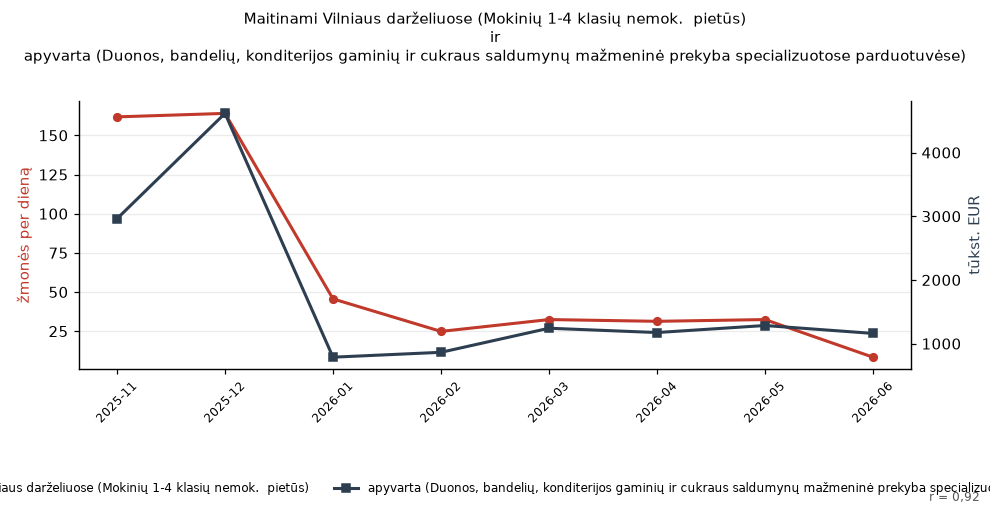
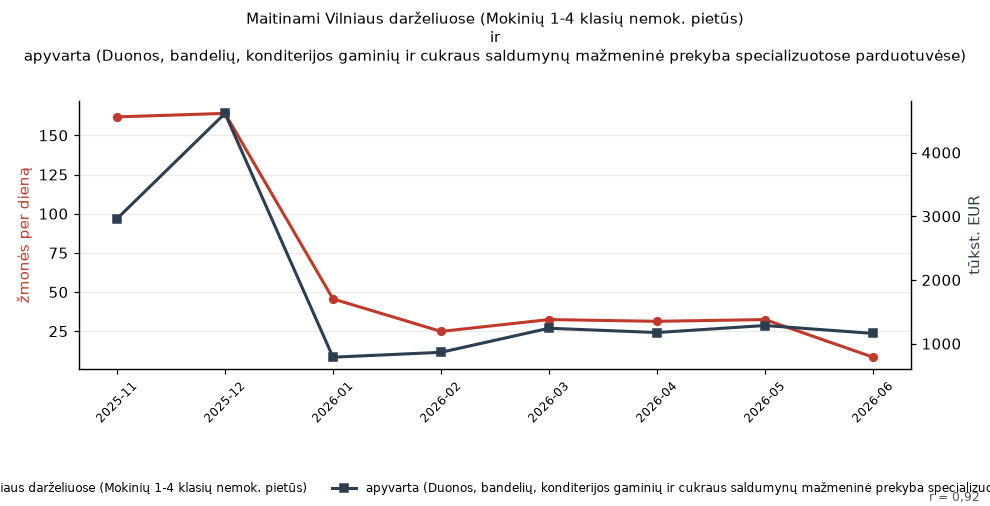
Relabel double space

Changed region(s): [[0.0, 0.9486, 1.0, 0.9783], [0.2424, 0.0, 0.7576, 0.0593]]

diff --git a/post/2026-10-23-f5a0be7b/index.html b/post/2026-10-23-f5a0be7b/index.html
@@ -1,10 +1,10 @@
 <!doctype html>
 <html lang="lt"><head><meta charset="utf-8">
 <meta name="viewport" content="width=device-width, initial-scale=1">
-<title>Pastaraisiais mėnesiais lyg tyčia sutapo: maitinami Vilniaus darželiuose (Mokinių 1-4 klasių nemok.  pietūs) ir apyvarta (Duonos, bandelių, konditerijos gaminių ir cukraus saldumynų mažmeninė prekyba specializuotose parduotuvėse) · Lyg tyčia</title>
+<title>Pastaraisiais mėnesiais lyg tyčia sutapo: maitinami Vilniaus darželiuose (Mokinių 1-4 klasių nemok. pietūs) ir apyvarta (Duonos, bandelių, konditerijos gaminių ir cukraus saldumynų mažmeninė prekyba specializuotose parduotuvėse) · Lyg tyčia</title>
 <meta property="og:type" content="article">
 <meta property="og:site_name" content="Lyg tyčia">
-<meta property="og:title" content="Pastaraisiais mėnesiais lyg tyčia sutapo: maitinami Vilniaus darželiuose (Mokinių 1-4 klasių nemok.  pietūs) ir apyvarta (Duonos, bandelių, konditerijos gaminių ir cukraus saldumynų mažmeninė prekyba specializuotose parduotuvėse)">
+<meta property="og:title" content="Pastaraisiais mėnesiais lyg tyčia sutapo: maitinami Vilniaus darželiuose (Mokinių 1-4 klasių nemok. pietūs) ir apyvarta (Duonos, bandelių, konditerijos gaminių ir cukraus saldumynų mažmeninė prekyba specializuotose parduotuvėse)">
 <meta property="og:description" content="Maitinami Vilniaus darželiuose (Mokinių 1-4 klasių nemok.  pietūs) ir apyvarta (Duonos, bandelių, konditerijos gaminių ir cukraus saldumynų mažmeninė prekyba specializuotose parduotuvėse) kyla ir krenta kartu: r = 0,92 per 8 mėn. (2025-11 – 2026-06).">
 <meta property="og:url" content="https://1gnas3000.github.io/lygtycia/post/2026-10-23-f5a0be7b/">
 <meta property="og:image" content="https://1gnas3000.github.io/lygtycia/post/2026-10-23-f5a0be7b/chart.png">
@@ -26,18 +26,18 @@
 <article><p class="meta">2026-10-23
  · panašios kreivės · mėnesio duomenys
  · r = 0,92</p>
-<h2>Pastaraisiais mėnesiais lyg tyčia sutapo: maitinami Vilniaus darželiuose (Mokinių 1-4 klasių nemok.  pietūs) ir apyvarta (Duonos, bandelių, konditerijos gaminių ir cukraus saldumynų mažmeninė prekyba specializuotose parduotuvėse)</h2>
+<h2>Pastaraisiais mėnesiais lyg tyčia sutapo: maitinami Vilniaus darželiuose (Mokinių 1-4 klasių nemok. pietūs) ir apyvarta (Duonos, bandelių, konditerijos gaminių ir cukraus saldumynų mažmeninė prekyba specializuotose parduotuvėse)</h2>
 
 <p><a href="../../post/2026-10-23-f5a0be7b/"><img src="../../post/2026-10-23-f5a0be7b/chart.png"
  alt="grafikas" loading="lazy"></a></p>
 <p class="sources">Duomenų šaltiniai:
  <a href="https://get.data.gov.lt/datasets/gov/vilniaus_m_sav/maitinimas/Valgis" rel="noopener">Maitinami asmenys Vilniaus darželiuose</a> · <a href="https://osp.stat.gov.lt/statistiniu-rodikliu-analize?indicator=S8R757" rel="noopener">Prekybos ir maitinimo apyvarta (Valstybės duomenų agentūra)</a></p>
 
-<p class="text">Maitinami Vilniaus darželiuose (Mokinių 1-4 klasių nemok.  pietūs) ir apyvarta (Duonos, bandelių, konditerijos gaminių ir cukraus saldumynų mažmeninė prekyba specializuotose parduotuvėse) kyla ir krenta kartu: r = 0,92 per 8 mėn. (2025-11 – 2026-06).</p><p class="text">Duomenys: „maitinami Vilniaus darželiuose (Mokinių 1-4 klasių nemok.  pietūs)“ (žmonės) ir „apyvarta (Duonos, bandelių, konditerijos gaminių ir cukraus saldumynų mažmeninė prekyba specializuotose parduotuvėse)“ (tūkst. EUR).</p><p class="text">Tyler Vigen&#39;o „Spurious Correlations“ dvasia: iš tūkstančių atsitiktinių Lietuvos atvirų duomenų porų šios dvi nupiešė tą pačią kreivę.</p>
+<p class="text">Maitinami Vilniaus darželiuose (Mokinių 1-4 klasių nemok.  pietūs) ir apyvarta (Duonos, bandelių, konditerijos gaminių ir cukraus saldumynų mažmeninė prekyba specializuotose parduotuvėse) kyla ir krenta kartu: r = 0,92 per 8 mėn. (2025-11 – 2026-06).</p><p class="text">Duomenys: „maitinami Vilniaus darželiuose (Mokinių 1-4 klasių nemok. pietūs)“ (žmonės) ir „apyvarta (Duonos, bandelių, konditerijos gaminių ir cukraus saldumynų mažmeninė prekyba specializuotose parduotuvėse)“ (tūkst. EUR).</p><p class="text">Tyler Vigen&#39;o „Spurious Correlations“ dvasia: iš tūkstančių atsitiktinių Lietuvos atvirų duomenų porų šios dvi nupiešė tą pačią kreivę.</p>
 <p class="share">Dalintis:
  <a href="https://www.facebook.com/sharer/sharer.php?u=https%3A//1gnas3000.github.io/lygtycia/post/2026-10-23-f5a0be7b/"
  rel="noopener">Facebook</a> ·
- <a href="https://mastodonshare.com/?text=Pastaraisiais%20m%C4%97nesiais%20lyg%20ty%C4%8Dia%20sutapo%3A%20maitinami%20Vilniaus%20dar%C5%BEeliuose%20%28Mokini%C5%B3%201-4%20klasi%C5%B3%20nemok.%20%20piet%C5%ABs%29%20ir%20apyvarta%20%28Duonos%2C%20bandeli%C5%B3%2C%20konditerijos%20gamini%C5%B3%20ir%20cukraus%20saldumyn%C5%B3%20ma%C5%BEmenin%C4%97%20prekyba%20specializuotose%20parduotuv%C4%97se%29&url=https%3A//1gnas3000.github.io/lygtycia/post/2026-10-23-f5a0be7b/"
+ <a href="https://mastodonshare.com/?text=Pastaraisiais%20m%C4%97nesiais%20lyg%20ty%C4%8Dia%20sutapo%3A%20maitinami%20Vilniaus%20dar%C5%BEeliuose%20%28Mokini%C5%B3%201-4%20klasi%C5%B3%20nemok.%20piet%C5%ABs%29%20ir%20apyvarta%20%28Duonos%2C%20bandeli%C5%B3%2C%20konditerijos%20gamini%C5%B3%20ir%20cukraus%20saldumyn%C5%B3%20ma%C5%BEmenin%C4%97%20prekyba%20specializuotose%20parduotuv%C4%97se%29&url=https%3A//1gnas3000.github.io/lygtycia/post/2026-10-23-f5a0be7b/"
  rel="noopener">Mastodon</a> ·
  <a href="https://www.linkedin.com/sharing/share-offsite/?url=https%3A//1gnas3000.github.io/lygtycia/post/2026-10-23-f5a0be7b/"
  rel="noopener">LinkedIn</a></p>

diff --git a/index.html b/index.html
@@ -18,7 +18,7 @@
 <p class="meta">Kasdien – dvi Lietuvos atvirų duomenų kreivės, kurios lyg tyčia sutapo.</p>
 </header>
 <article><p class="meta">2026-10-23</p>
-<h2><a href="./post/2026-10-23-f5a0be7b/">Pastaraisiais mėnesiais lyg tyčia sutapo: maitinami Vilniaus darželiuose (Mokinių 1-4 klasių nemok.  pietūs) ir apyvarta (Duonos, bandelių, konditerijos gaminių ir cukraus saldumynų mažmeninė prekyba specializuotose parduotuvėse)</a></h2>
+<h2><a href="./post/2026-10-23-f5a0be7b/">Pastaraisiais mėnesiais lyg tyčia sutapo: maitinami Vilniaus darželiuose (Mokinių 1-4 klasių nemok. pietūs) ir apyvarta (Duonos, bandelių, konditerijos gaminių ir cukraus saldumynų mažmeninė prekyba specializuotose parduotuvėse)</a></h2>
 
 <p><a href="./post/2026-10-23-f5a0be7b/"><img src="./post/2026-10-23-f5a0be7b/chart.png"
  alt="grafikas" loading="lazy"></a></p>
@@ -29,7 +29,7 @@
 <p class="share">Dalintis:
  <a href="https://www.facebook.com/sharer/sharer.php?u=https%3A//1gnas3000.github.io/lygtycia/post/2026-10-23-f5a0be7b/"
  rel="noopener">Facebook</a> ·
- <a href="https://mastodonshare.com/?text=Pastaraisiais%20m%C4%97nesiais%20lyg%20ty%C4%8Dia%20sutapo%3A%20maitinami%20Vilniaus%20dar%C5%BEeliuose%20%28Mokini%C5%B3%201-4%20klasi%C5%B3%20nemok.%20%20piet%C5%ABs%29%20ir%20apyvarta%20%28Duonos%2C%20bandeli%C5%B3%2C%20konditerijos%20gamini%C5%B3%20ir%20cukraus%20saldumyn%C5%B3%20ma%C5%BEmenin%C4%97%20prekyba%20specializuotose%20parduotuv%C4%97se%29&url=https%3A//1gnas3000.github.io/lygtycia/post/2026-10-23-f5a0be7b/"
+ <a href="https://mastodonshare.com/?text=Pastaraisiais%20m%C4%97nesiais%20lyg%20ty%C4%8Dia%20sutapo%3A%20maitinami%20Vilniaus%20dar%C5%BEeliuose%20%28Mokini%C5%B3%201-4%20klasi%C5%B3%20nemok.%20piet%C5%ABs%29%20ir%20apyvarta%20%28Duonos%2C%20bandeli%C5%B3%2C%20konditerijos%20gamini%C5%B3%20ir%20cukraus%20saldumyn%C5%B3%20ma%C5%BEmenin%C4%97%20prekyba%20specializuotose%20parduotuv%C4%97se%29&url=https%3A//1gnas3000.github.io/lygtycia/post/2026-10-23-f5a0be7b/"
  rel="noopener">Mastodon</a> ·
  <a href="https://www.linkedin.com/sharing/share-offsite/?url=https%3A//1gnas3000.github.io/lygtycia/post/2026-10-23-f5a0be7b/"
  rel="noopener">LinkedIn</a></p></article>
